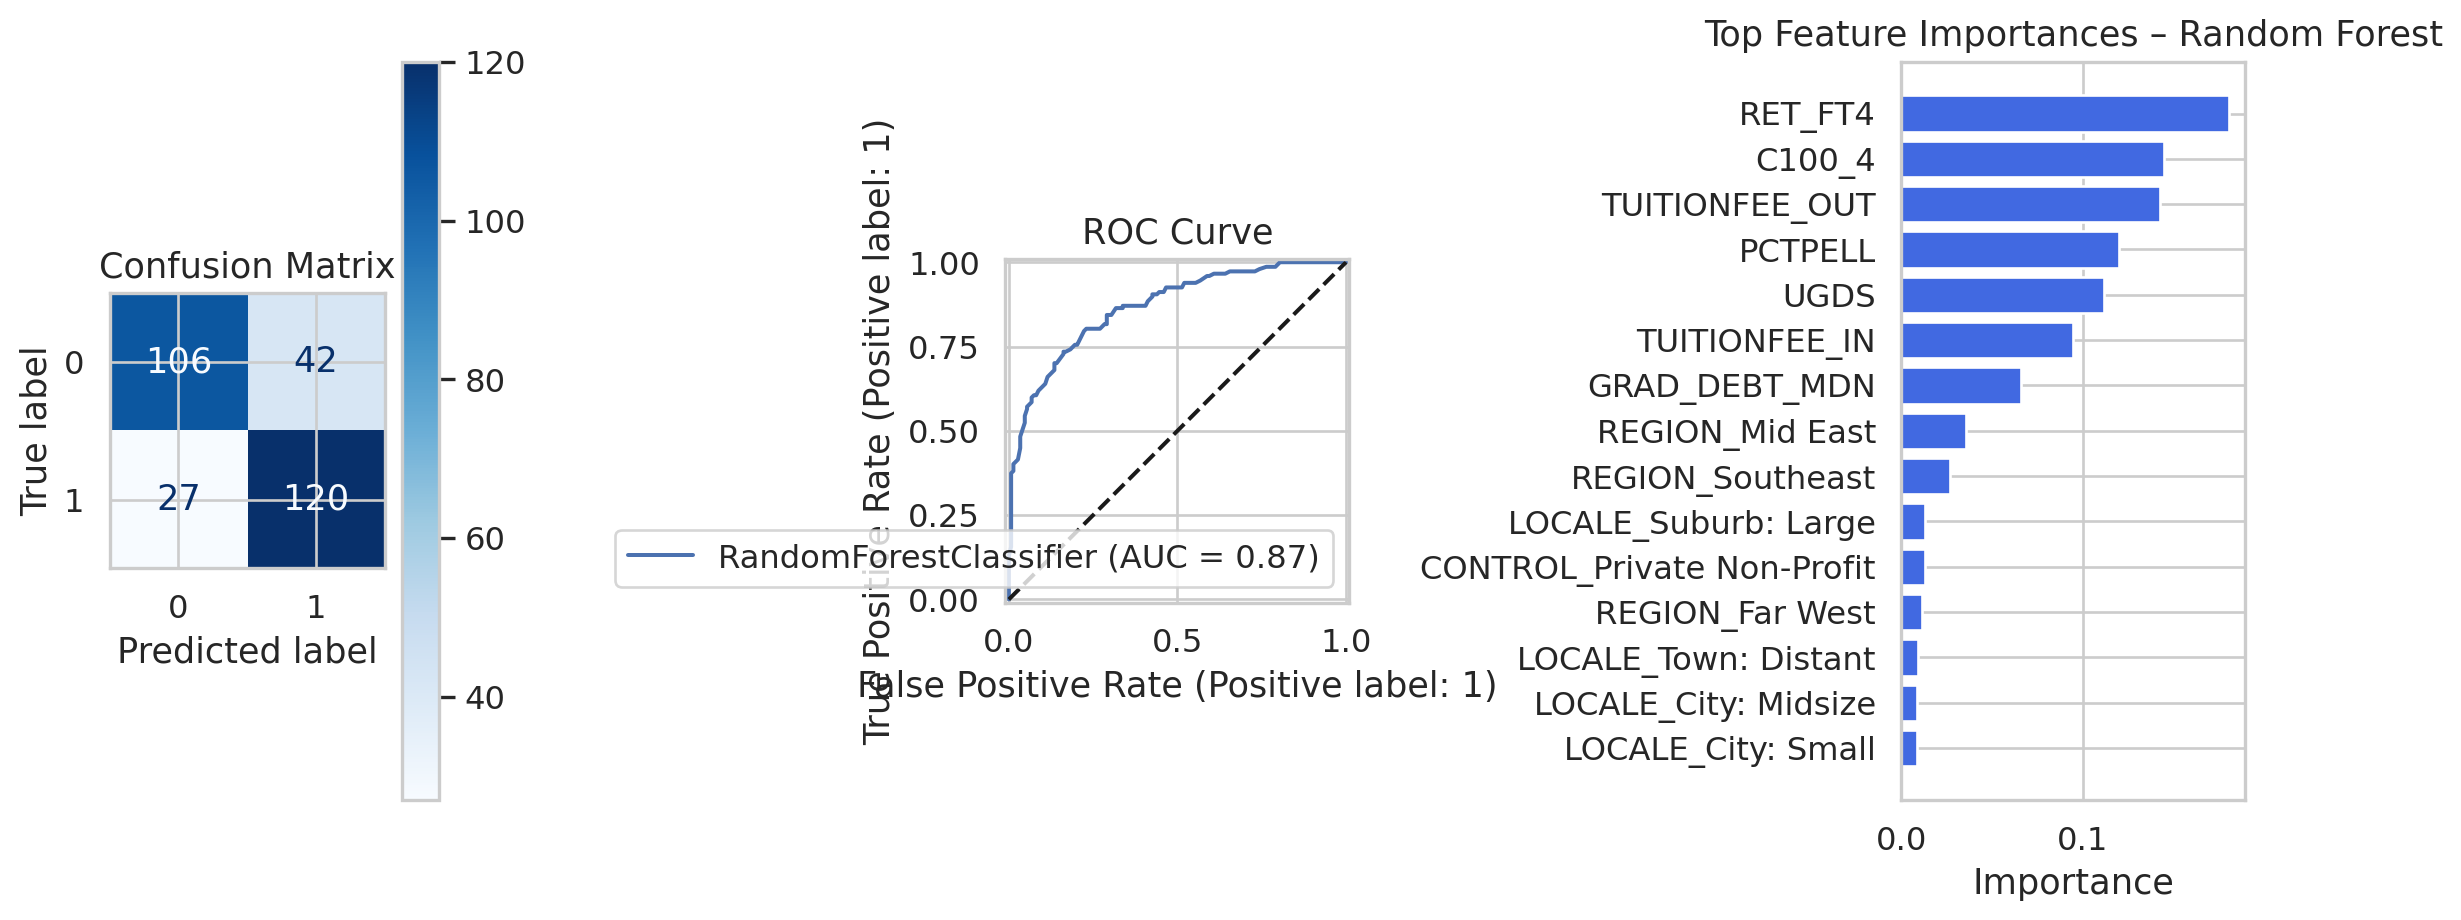
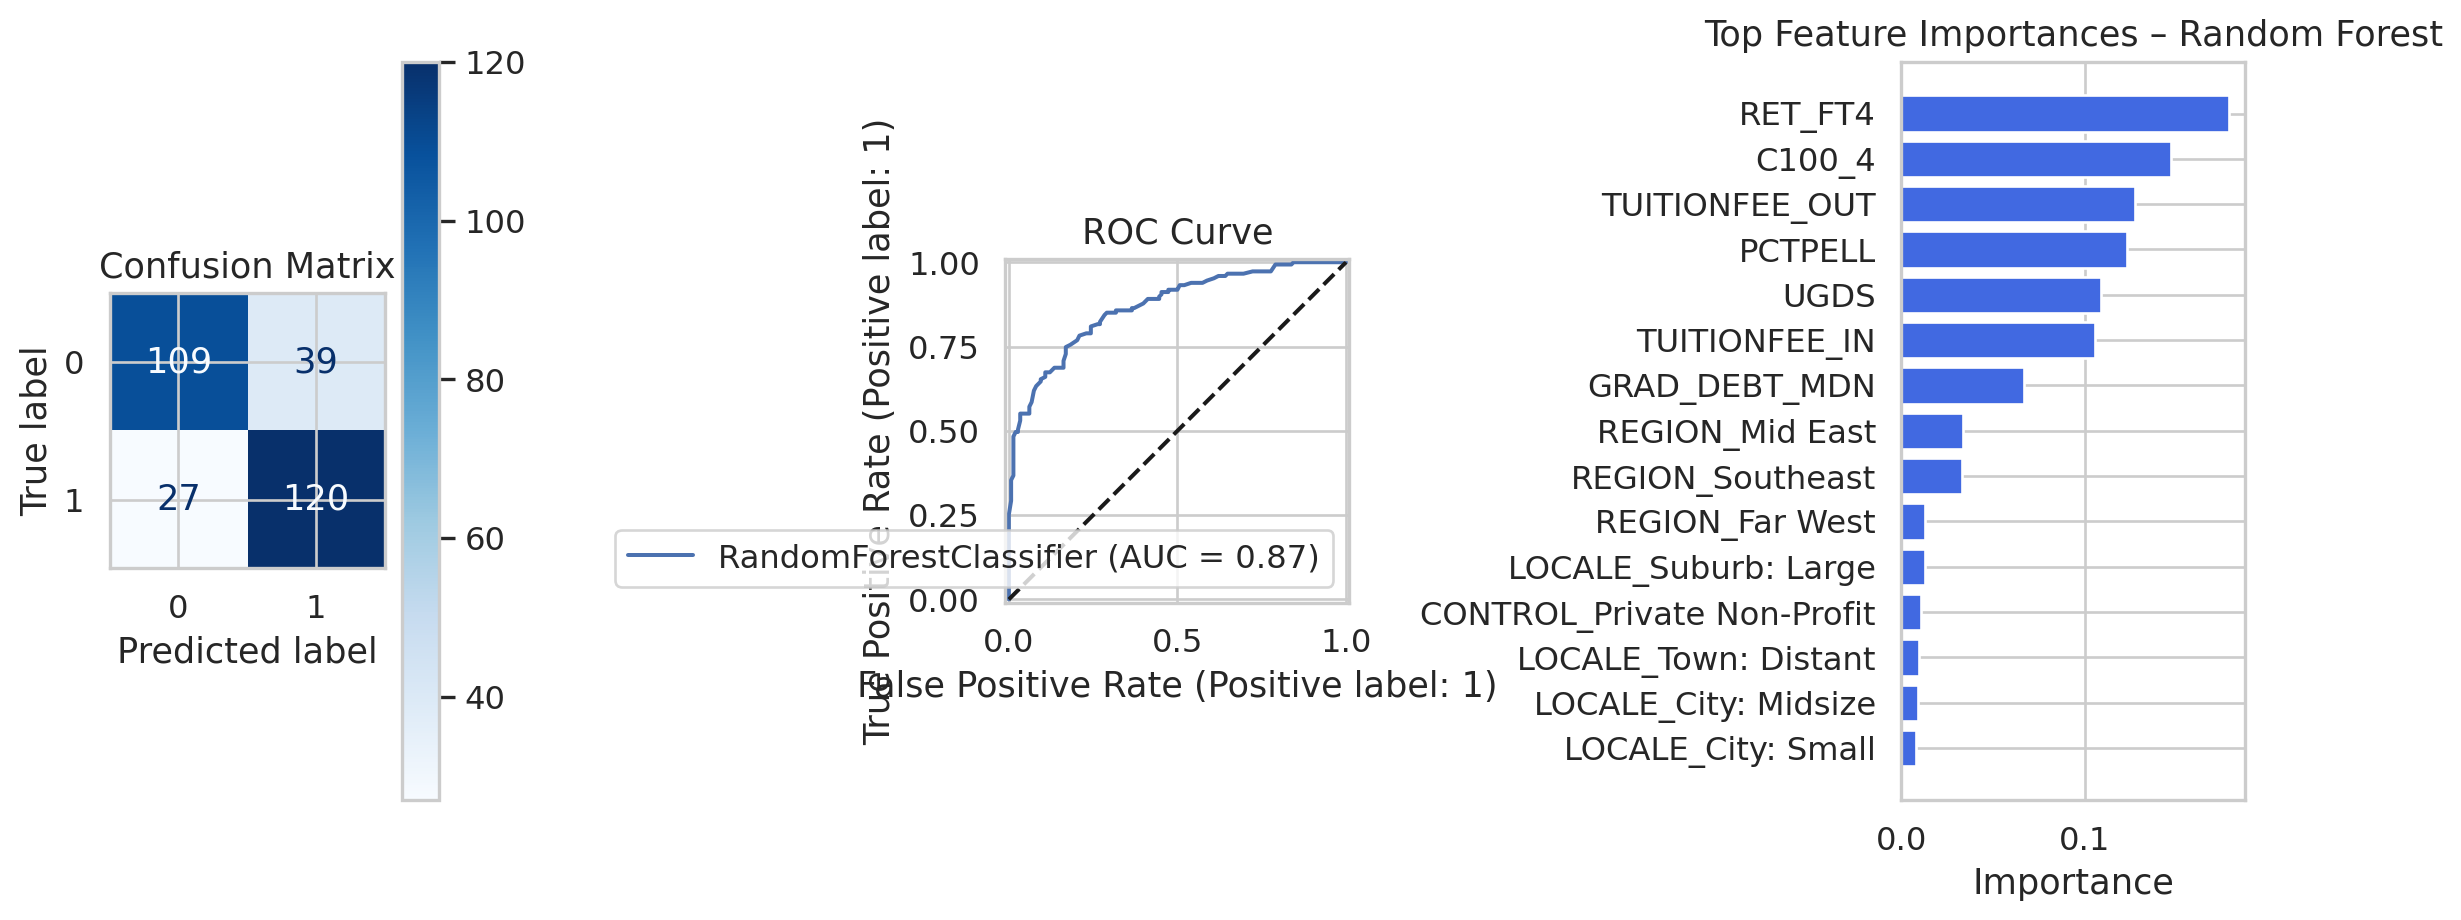
Built site for gh-pages

diff --git a/presentation.html b/presentation.html
@@ -223,7 +223,7 @@ Ava Lasater
 </section>
 <section id="correlation-matrix-of-numerical-features" class="slide level2 smaller">
 <h2>Correlation Matrix of Numerical Features</h2>
-<div id="34e591a4" class="cell" data-fig-height="6" data-fig-responsive="false" data-fig-width="8" data-execution_count="4">
+<div id="9d9622dc" class="cell" data-fig-height="6" data-fig-responsive="false" data-fig-width="8" data-execution_count="4">
 <div class="cell-output cell-output-display">
 <div class="quarto-figure quarto-figure-center">
 <figure>
@@ -264,7 +264,7 @@ Ava Lasater
 </section>
 <section id="linear-regression-results-1" class="slide level2 smaller">
 <h2>Linear Regression Results</h2>
-<div id="b04969b7" class="cell" data-fig-height="6" data-fig-responsive="false" data-fig-width="8" data-execution_count="5">
+<div id="6fc84413" class="cell" data-fig-height="6" data-fig-responsive="false" data-fig-width="8" data-execution_count="5">
 <div class="cell-output cell-output-stdout">
 <pre><code>Mean Squared Error: 110300510.89
 R-squared: 0.4855</code></pre>
@@ -295,7 +295,7 @@ R-squared: 0.4855</code></pre>
 </section>
 <section id="ridge-regression-results-1" class="slide level2 smaller">
 <h2>Ridge Regression Results</h2>
-<div id="a38d10f6" class="cell" data-fig-height="6" data-fig-responsive="false" data-fig-width="10" data-execution_count="6">
+<div id="8ba863f7" class="cell" data-fig-height="6" data-fig-responsive="false" data-fig-width="10" data-execution_count="6">
 <div class="cell-output cell-output-stdout">
 <pre><code>Ridge Regression:
 Mean Squared Error: 110226157.793066
@@ -329,7 +329,7 @@ R-squared: 0.48583010161522244</code></pre>
 </section>
 <section id="selectkbest-feature-selection" class="slide level2">
 <h2>SelectKBest Feature Selection</h2>
-<div id="847f6050" class="cell" data-fig-height="6" data-fig-responsive="false" data-fig-width="10" data-execution_count="7">
+<div id="511a160d" class="cell" data-fig-height="6" data-fig-responsive="false" data-fig-width="10" data-execution_count="7">
 <div class="cell-output cell-output-display">
 <div class="quarto-figure quarto-figure-center">
 <figure>
@@ -360,21 +360,14 @@ R-squared: 0.48583010161522244</code></pre>
 </section>
 <section id="permutation-importance" class="slide level2">
 <h2>Permutation Importance</h2>
-<div id="811048cc" class="cell" data-fig-height="6" data-fig-responsive="false" data-fig-width="10" data-execution_count="8">
+<div id="ee01b4f7" class="cell" data-fig-height="6" data-fig-responsive="false" data-fig-width="10" data-execution_count="8">
 <div class="cell-output cell-output-stdout">
 <pre><code>Top 15 features:</code></pre>
 </div>
 <div class="cell-output cell-output-display">
 <div class="quarto-figure quarto-figure-center">
 <figure>
-<p><img data-src="presentation_files/figure-revealjs/cell-9-output-2.png" class="quarto-figure quarto-figure-center" width="1026" height="535"></p>
-</figure>
-</div>
-</div>
-<div class="cell-output cell-output-display">
-<div class="quarto-figure quarto-figure-center">
-<figure>
-<p><img data-src="presentation_files/figure-revealjs/cell-9-output-3.png" class="quarto-figure quarto-figure-center" width="939" height="556"></p>
+<p><img data-src="presentation_files/figure-revealjs/cell-9-output-2.png" class="quarto-figure quarto-figure-center" width="939" height="556"></p>
 </figure>
 </div>
 </div>
@@ -401,10 +394,10 @@ R-squared: 0.48583010161522244</code></pre>
 </section>
 <section id="logistic-regression-results" class="slide level2 smaller">
 <h2>Logistic Regression Results</h2>
-<div id="d509a265" class="cell" data-fig-height="5" data-fig-responsive="false" data-fig-width="12" data-execution_count="9">
+<div id="4f841fb5" class="cell" data-fig-height="5" data-fig-responsive="false" data-fig-width="12" data-execution_count="9">
 <div class="cell-output cell-output-stdout">
 <pre><code>k-Fold F1-Score: 0.80
-k-Fold CV took 0.07 seconds
+k-Fold CV took 0.12 seconds
 
 Logistic Regression Accuracy: 0.7728813559322034
 Logistic Regression Precision: 0.7775823831391786
@@ -446,15 +439,15 @@ Logistic Regression F-1 Score: 0.7719854657317307</code></pre>
 </section>
 <section id="random-forest-results" class="slide level2 smaller">
 <h2>Random Forest Results</h2>
-<div id="c4bda76c" class="cell" data-fig-height="5" data-fig-responsive="false" data-fig-width="12" data-execution_count="10">
+<div id="f853971b" class="cell" data-fig-height="5" data-fig-responsive="false" data-fig-width="12" data-execution_count="10">
 <div class="cell-output cell-output-stdout">
 <pre><code>Random Forest Cross Validation
 k-Fold F1-Score: 0.81
-k-Fold CV took 1.09 seconds
-Random Forest Accuracy: 0.7661016949152543
-Random Forest Precision: 0.768961952904861
-Random Forest Recall: 0.7661016949152543
-Random Forest F-1 Score: 0.765536000918228</code></pre>
+k-Fold CV took 1.13 seconds
+Random Forest Accuracy: 0.7762711864406779
+Random Forest Precision: 0.7781730280855547
+Random Forest Recall: 0.7762711864406779
+Random Forest F-1 Score: 0.7759313608470364</code></pre>
 </div>
 <div class="cell-output cell-output-display">
 <div class="quarto-figure quarto-figure-center">
@@ -467,7 +460,7 @@ Random Forest F-1 Score: 0.765536000918228</code></pre>
 </section>
 <section id="calibration-probabilities-vs.-accuracy" class="slide level2 smaller">
 <h2>Calibration: Probabilities vs.&nbsp;Accuracy</h2>
-<div id="8337aed6" class="cell" data-fig-height="6" data-fig-responsive="false" data-fig-width="7" data-execution_count="11">
+<div id="f161ffc2" class="cell" data-fig-height="6" data-fig-responsive="false" data-fig-width="7" data-execution_count="11">
 <div class="cell-output cell-output-display">
 <div class="quarto-figure quarto-figure-center">
 <figure>
